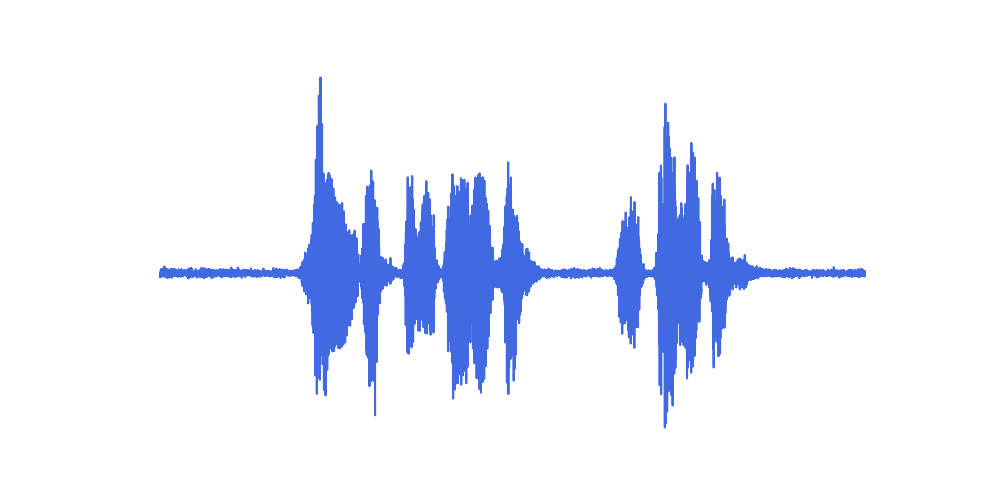
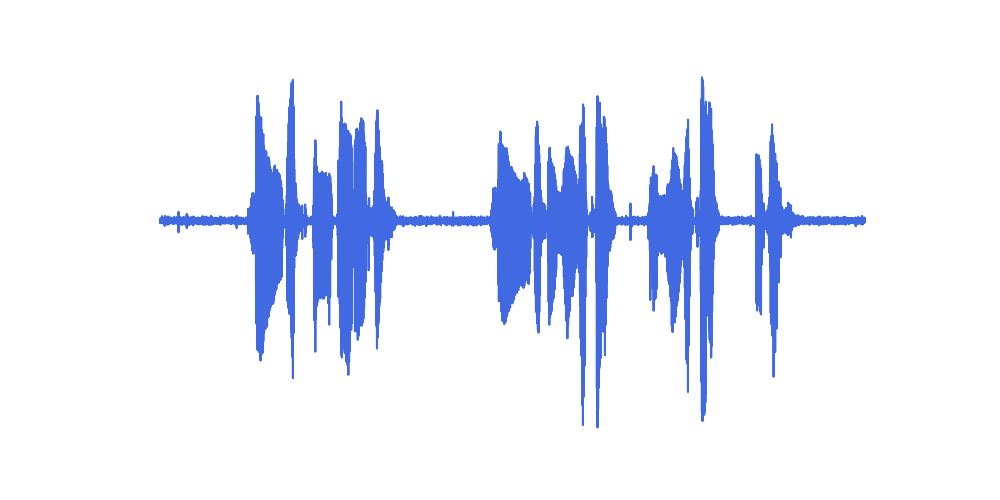
allow graph for <1s

Changed region(s): [[0.155, 0.15, 0.868, 0.84]]

diff --git a/_deliverable/sourceCode/playback.py b/_deliverable/sourceCode/playback.py
@@ -118,7 +118,7 @@ def visualize(wav):
     dataArray = wav["dataNormal"]
     sample_rate = wav["sample_rate"]
     amplitude = np.max(dataArray, axis=1)
-    time = len(amplitude) // sample_rate
+    time = len(amplitude) / sample_rate
     plt.figure(figsize=(10,5))
     plt.plot(np.linspace(0, time, num=len(amplitude)), amplitude, color='royalblue')
     plt.axis('off')
@@ -131,5 +131,5 @@ if __name__ == "__main__":
     speed = 0.5
     volume = 2
     start = 0
-    wav = getData("newTest.wav")
-    playSound(wav, speed, volume, start)
+    wav= getData("recordings/record_20240302_164145_20240302_164358_trim.wav")
+    visualize(wav)

diff --git a/playback.py b/playback.py
@@ -118,7 +118,7 @@ def visualize(wav):
     dataArray = wav["dataNormal"]
     sample_rate = wav["sample_rate"]
     amplitude = np.max(dataArray, axis=1)
-    time = len(amplitude) // sample_rate
+    time = len(amplitude) / sample_rate
     plt.figure(figsize=(10,5))
     plt.plot(np.linspace(0, time, num=len(amplitude)), amplitude, color='royalblue')
     plt.axis('off')
@@ -131,5 +131,5 @@ if __name__ == "__main__":
     speed = 0.5
     volume = 2
     start = 0
-    wav = getData("newTest.wav")
-    playSound(wav, speed, volume, start)
+    wav= getData("recordings/record_20240302_164145_20240302_164358_trim.wav")
+    visualize(wav)
